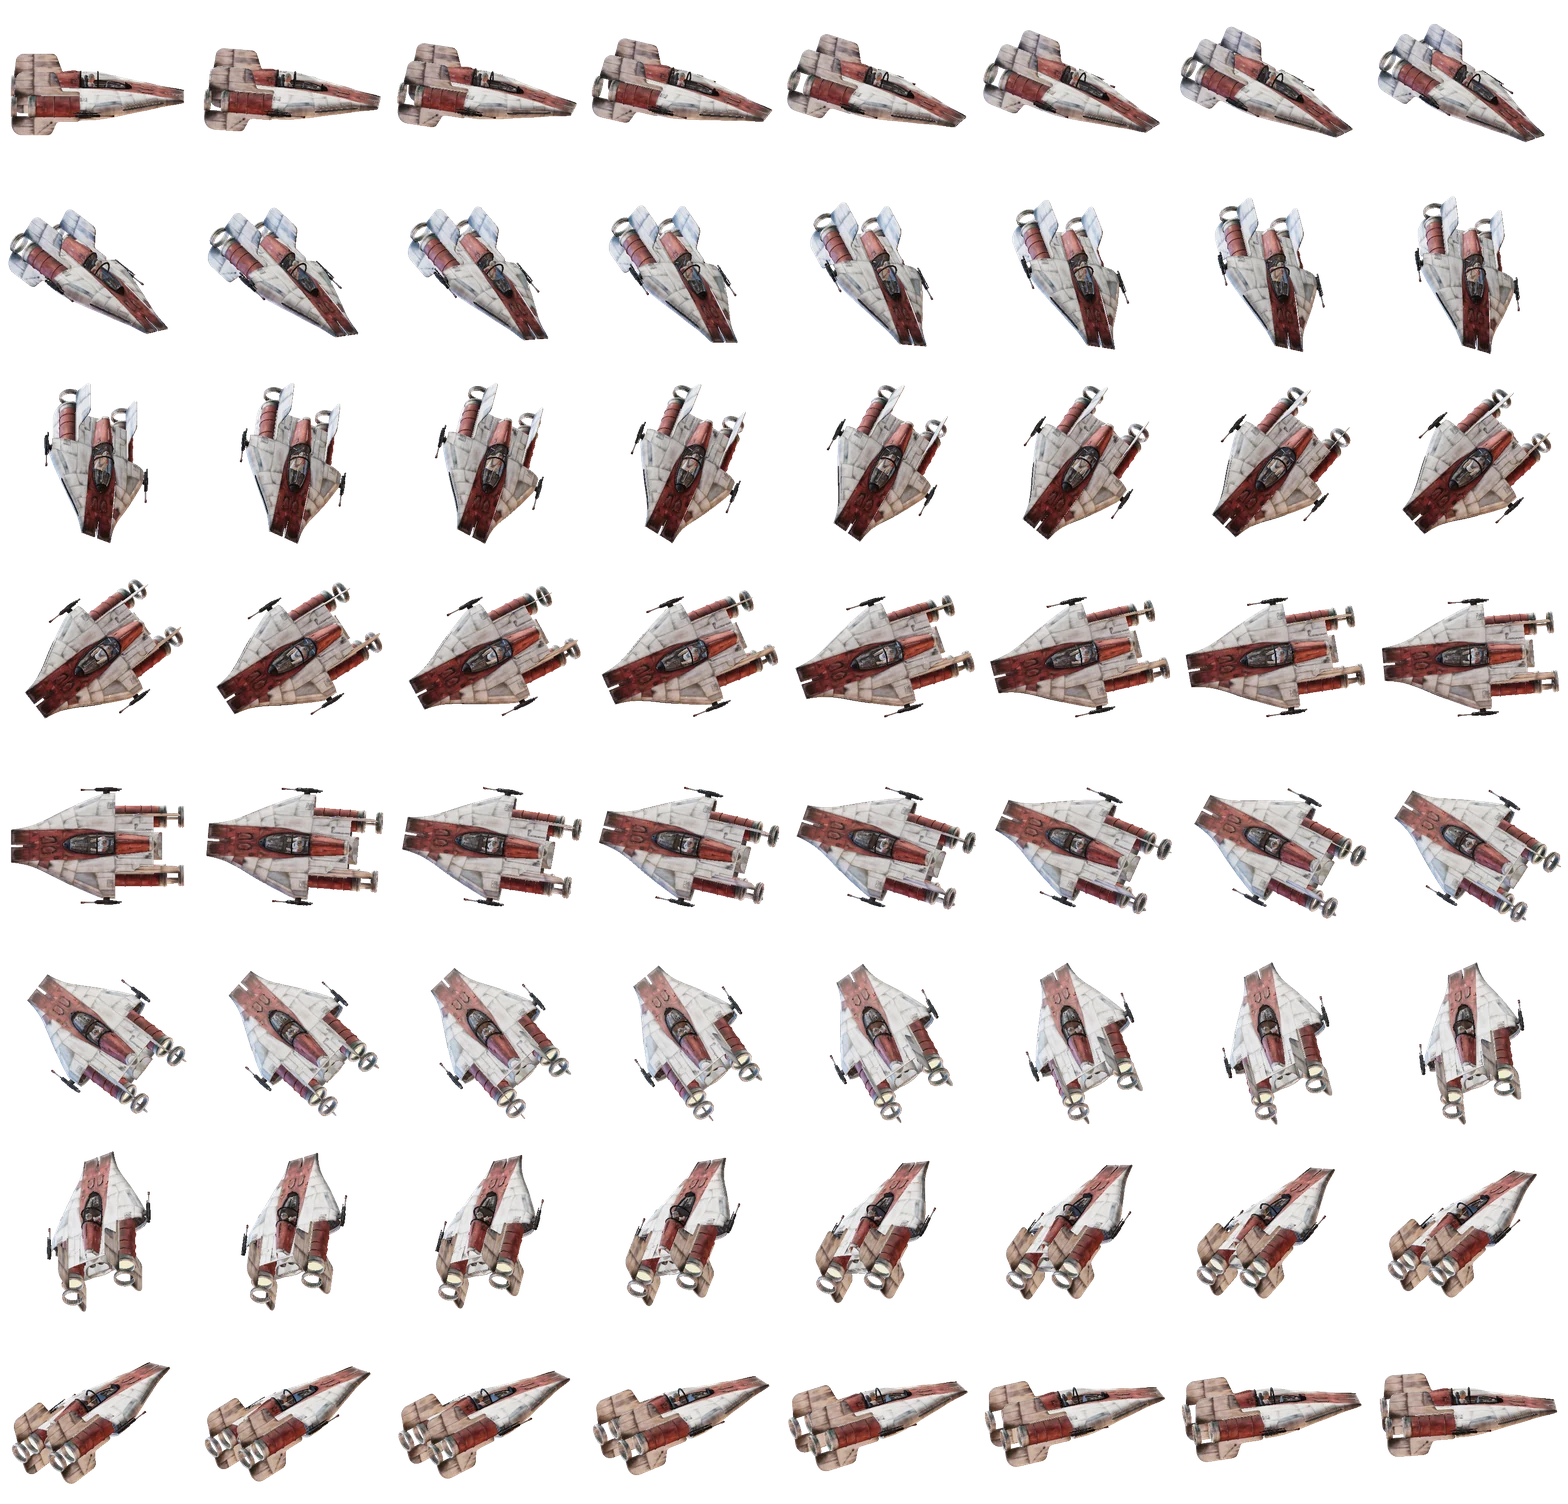
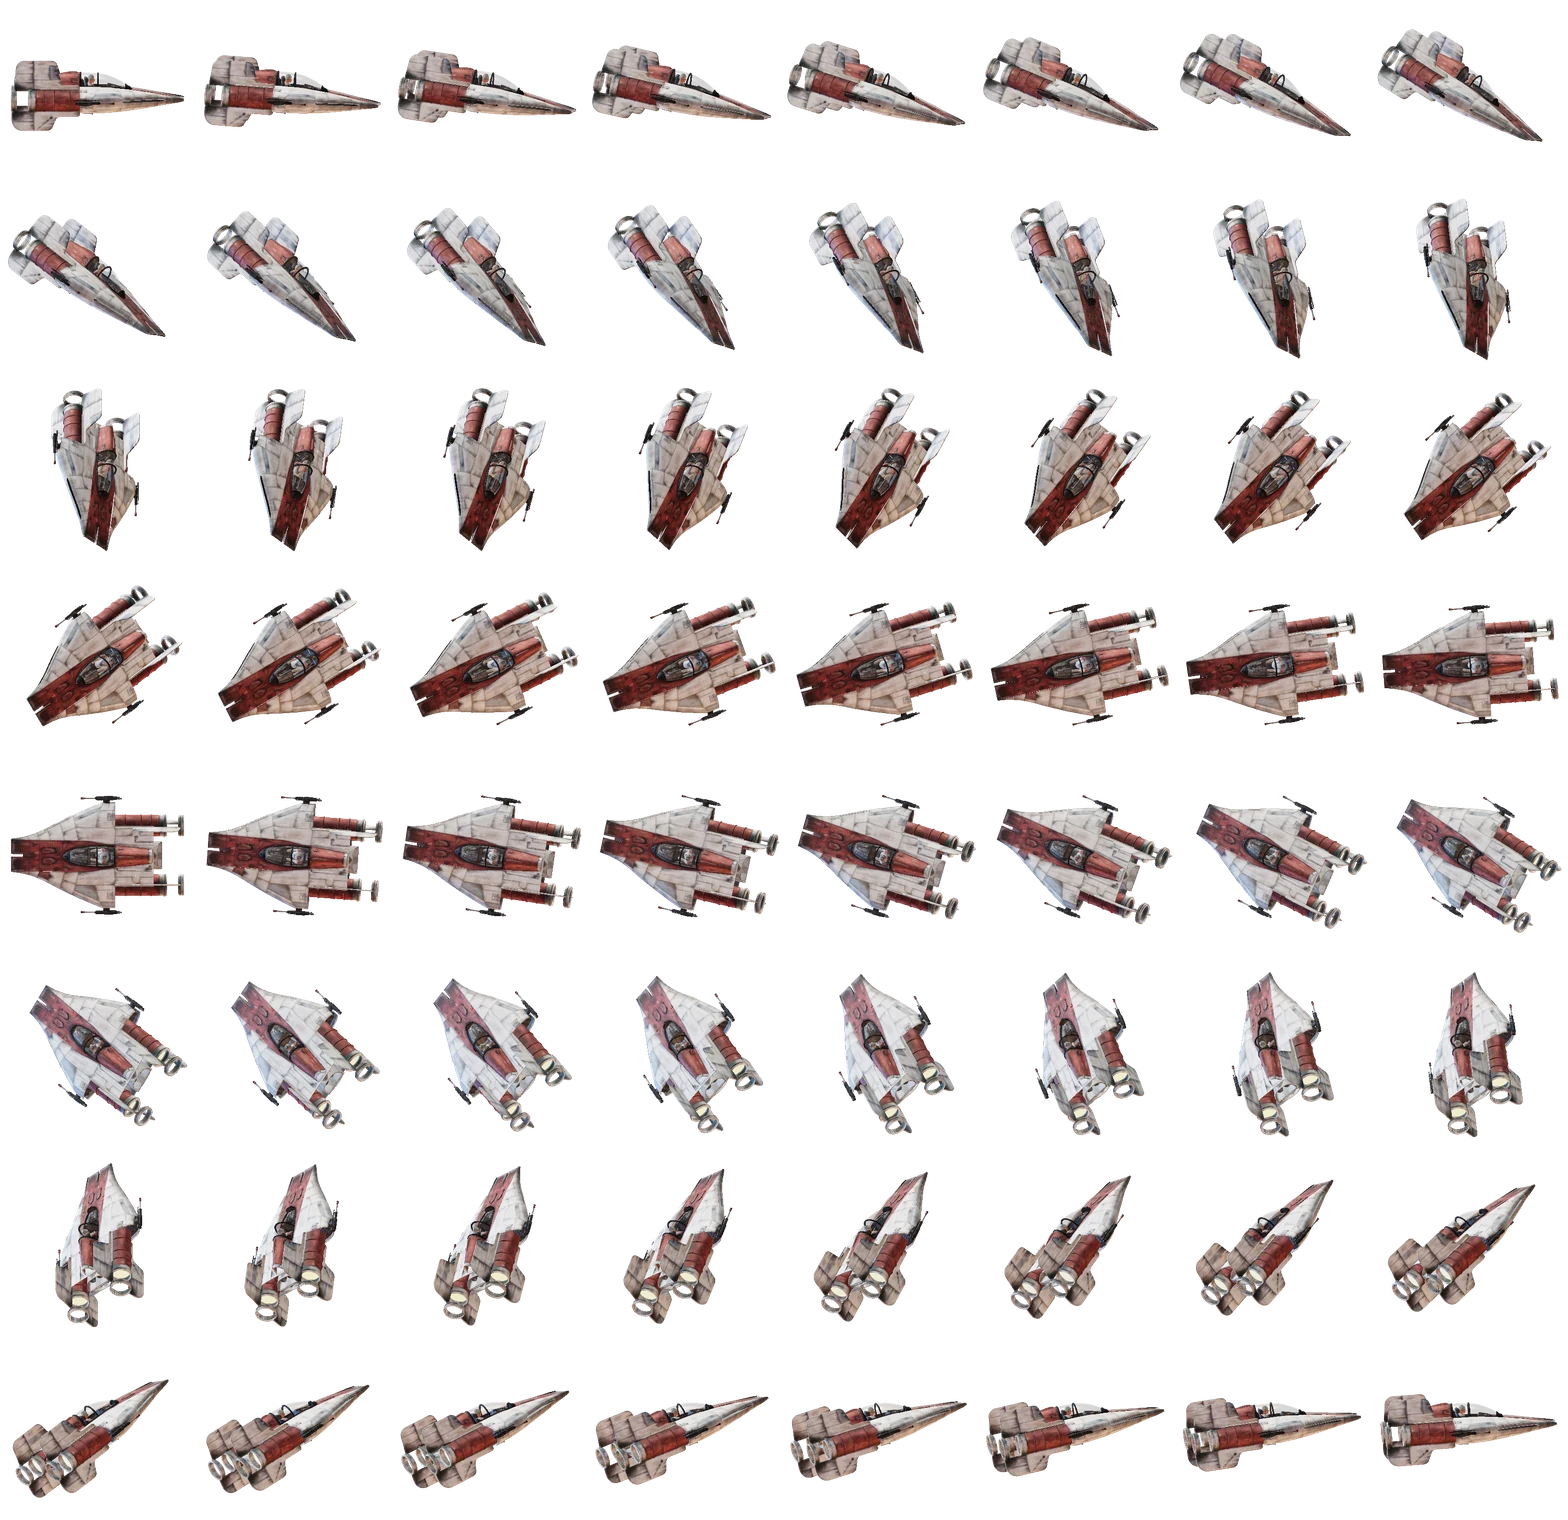
Curva da Faísca sem "fantasma": 7 níveis de inclinação, uma figura só
Antes a curva desenhava a figura reta e, por cima, a deitada meio
transparente — dava para ver as duas naves sobrepostas. Agora são 7 folhas
de inclinação (de −45° a +45°, de 15° em 15°) e o jogo desenha só a mais
próxima, sem misturar.

Claude-Session: https://claude.ai/code/session_01F1v3GbNBq4SeXW8exAXnRG

diff --git a/astra-conflux.html b/astra-conflux.html
@@ -3808,21 +3808,17 @@ function desenharTiro(b, t) {
    Com vários quadros, a inclinação escolhe o quadro — é rotação de verdade,
    vinda do modelo 3D. Com um quadro só, ela é fingida achatando e cisalhando
    o sprite, que num jogo visto de cima engana bem o olho. */
-/* Um quadro da folha inclinada: escolhe a direção mais próxima de `ang` e
-   mistura a figura reta com a da curva conforme a inclinação `inc` (−1 a 1). */
+/* Um quadro da folha inclinada: escolhe a direção mais próxima de `ang` e a
+   folha de inclinação mais próxima de `inc` (−1 a 1). Sempre UMA figura só —
+   misturar a reta com a deitada deixava um "fantasma" das duas na curva. */
 function quadroIncl(c, x, y, ang, inc, escala) {
   const a = ((ang % (2*Math.PI)) + 2*Math.PI) % (2*Math.PI);
   const i = Math.round(a / (2*Math.PI) * c.N) % c.N;
   const sx = (i % c.cols) * c.fw, sy = Math.floor(i / c.cols) * c.fh;
   const w = c.fw / c.px * escala, h = c.fh / c.px * escala;
-  ctx.drawImage(c.imgs[1], sx, sy, c.fw, c.fh, x - w/2, y - h/2, w, h);
-  const v = clamp(inc, -1, 1);
-  if (Math.abs(v) > 0.04) {
-    const a0 = ctx.globalAlpha;
-    ctx.globalAlpha = a0 * Math.min(1, Math.abs(v) * 1.6);
-    ctx.drawImage(c.imgs[v > 0 ? 2 : 0], sx, sy, c.fw, c.fh, x - w/2, y - h/2, w, h);
-    ctx.globalAlpha = a0;
-  }
+  const n = c.imgs.length;
+  const r = Math.round((clamp(inc, -1, 1) + 1) / 2 * (n - 1));
+  ctx.drawImage(c.imgs[r], sx, sy, c.fw, c.fh, x - w/2, y - h/2, w, h);
 }
 
 function desenharNaveSprite(s, x, y, ang, t) {
@@ -3958,7 +3954,8 @@ const SPRITE_NAVE = {
    desenho para cada direção, renderizado do modelo 3D com a câmera olhando de
    cima e inclinada (como no DarkOrbit). Assim aparecem o bico, a lateral e os
    motores conforme ela vira, e a luz fica parada no mundo.
-     arqs: uma folha por inclinação de curva (esquerda, reta, direita)
+     arqs: uma folha por inclinação de curva, da mais deitada para a esquerda
+           (−45°) até a mais deitada para a direita (+45°), de 15° em 15°
      N: quantas direções (a 0 aponta para a direita e segue no sentido horário)
      cols: colunas da grade;  fw/fh: tamanho de cada quadro em pixels
      px: pixels por unidade do jogo;  inc: inclinação da câmera, em graus
@@ -3966,8 +3963,8 @@ const SPRITE_NAVE = {
    enquanto as folhas carregam. As folhas só são baixadas quando a nave entra
    em uso, para não pesar no celular. */
 const INCL_NAVE = {
-  faisca: { arqs:["nave-faisca-0.webp","nave-faisca-1.webp","nave-faisca-2.webp"],
-            N:64, cols:8, fw:196, fh:188, px:2.5, inc:40 },
+  faisca: { arqs:[0,1,2,3,4,5,6].map(i => "nave-faisca-" + i + ".webp"),
+            N:64, cols:8, fw:196, fh:190, px:2.5, inc:40 },
 };
 function inclDaNave(id) {
   const c = INCL_NAVE[id];
